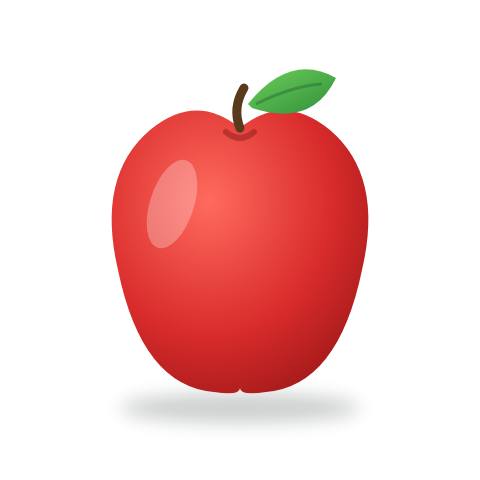
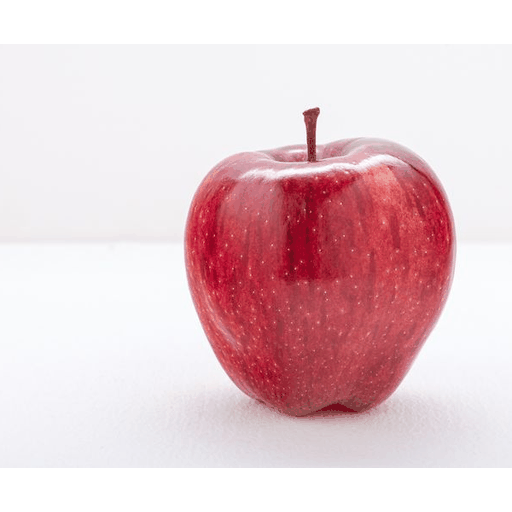
Replace demo category and product illustrations with real photographs

diff --git a/docs/catalog-photo-sources.md b/docs/catalog-photo-sources.md
@@ -1,0 +1,37 @@
+# Demo catalog photographs
+
+The 14 active demo category and product illustrations have been replaced with real photographs.
+They keep the existing `public/images/all575/category-art/<slug>.png` paths because existing local
+catalog records already point there. No seeding, database reset, stock update or product rename
+is needed. Pull branch `v2` in **all-575-api**, keep the API running, and hard-refresh the app
+(Ctrl+F5 in a desktop browser) to discard cached illustrations.
+
+These are licensed sample photographs for the local/demo catalog, not verified photographs of
+seller inventory. Replace them with the actual seller's product photos before launch. The
+normal API image fields remain the source of truth; no photo substitution is done in the app.
+The demo seeder remains blocked in production.
+
+Files are 512 x 512 PNGs, cropped where needed and padded without stretching. They contain
+photography, not generated imagery or illustrated icons. Original photo backgrounds are retained.
+The JSON manifest records each source, photographer, crop and final file hash.
+
+Sources: [Pexels License](https://www.pexels.com/license/) and
+[Pixabay Content License](https://pixabay.com/service/license-summary/).
+Use of a visible brand in a demo photo does not imply endorsement or availability for sale.
+
+| File | Photographer | Source |
+| --- | --- | --- |
+| clothing.png | dayong tien | [Original photo](https://www.pexels.com/photo/a-basic-white-t-shirt-18186106/) |
+| toys.png | Nothing Ahead | [Original photo](https://www.pexels.com/photo/brown-bear-plush-toy-on-white-surface-5786759/) |
+| cookware.png | Silberfuchs | [Original photo](https://pixabay.com/photos/pot-cookware-kitchen-unclean-554068/) |
+| cleaning.png | Markus Winkler | [Original photo](https://www.pexels.com/photo/stall-with-washing-powder-13768941/) |
+| stationery.png | Jess Bailey Designs | [Original photo](https://www.pexels.com/photo/three-ball-point-pens-983826/) |
+| accessories.png | Saliem Moeslan | [Original photo](https://www.pexels.com/photo/sunglasses-on-a-white-background-27111647/) |
+| hand-tools.png | Roger Brown | [Original photo](https://www.pexels.com/photo/different-wrenches-on-a-brown-surface-5414384/) |
+| shampoos.png | TRAFFIC On | [Original photo](https://www.pexels.com/photo/shampoo-in-design-bottle-14656326/) |
+| other.png | Melike B | [Original photo](https://www.pexels.com/photo/empty-baskets-on-white-background-10079392/) |
+| vegetables.png | Daka | [Original photo](https://www.pexels.com/photo/cherry-tomatoes-on-white-background-11229105/) |
+| fruits.png | Evgeniy Alekseyev | [Original photo](https://www.pexels.com/photo/red-apple-on-white-surface-7333141/) |
+| kitchen-utensils.png | Nelly Aran | [Original photo](https://www.pexels.com/photo/fork-on-spoon-20849333/) |
+| shoes.png | Melvin Buezo | [Original photo](https://www.pexels.com/photo/photo-of-sneakers-on-white-background-2529148/) |
+| towels.png | Atlantic Ambience | [Original photo](https://www.pexels.com/photo/clean-cotton-towels-12932367/) |

diff --git a/README.md b/README.md
@@ -82,3 +82,7 @@ php artisan care:reply CASE_ID "Outcome explained here." --status=resolved
 ```
 
 The command also accepts `rejected`. It is unavailable outside local/testing. Opening/resolving a case never issues a refund, restores stock or confirms money received. Production support permissions/UI, return policy/collection/inspection, evidence attachments and return-triggered partial refunds are still required. See the [customer map](https://github.com/EhsasElias/all-575-android/blob/v2/docs/customer/CUSTOMER_MAP.md) and [testing guide](https://github.com/EhsasElias/all-575-android/blob/v2/docs/customer/CUSTOMER_TEST_GUIDE.md) for the full requirement and test matrix.
+
+## Demo catalog photographs
+
+The active demo categories and products use real photographs. See [photo sources and local refresh steps](docs/catalog-photo-sources.md). Pulling these image files does not change your database or stock; hard-refresh the app after updating the API repository.
